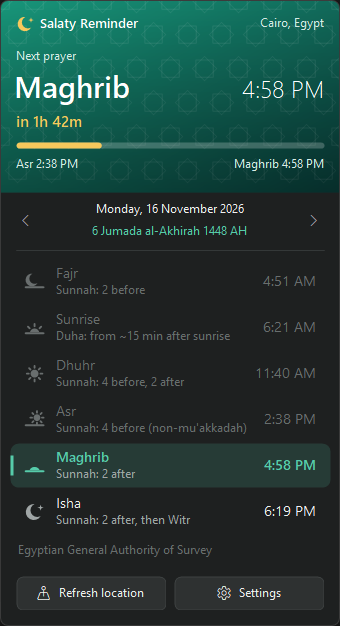
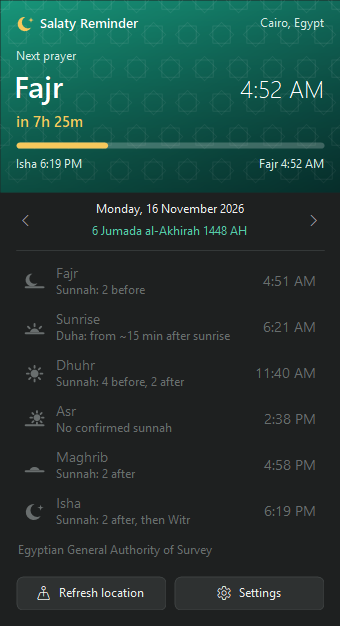
Show no confirmed sunnah for Asr (1.0.3)

diff --git a/src/SalatyReminder/Localization/Strings.cs b/src/SalatyReminder/Localization/Strings.cs
@@ -98,7 +98,7 @@ public static class L
         Prayer.Fajr => Ar ? "السنة: ركعتان قبل الفرض" : "Sunnah: 2 before",
         Prayer.Sunrise => Ar ? "الضحى: بعد الشروق بربع ساعة" : "Duha: from ~15 min after sunrise",
         Prayer.Dhuhr => Ar ? "السنة: ٤ قبل، ٢ بعد" : "Sunnah: 4 before, 2 after",
-        Prayer.Asr => Ar ? "السنة: ٤ قبل (غير مؤكدة)" : "Sunnah: 4 before (non-mu'akkadah)",
+        Prayer.Asr => Ar ? "لا توجد سنة راتبة" : "No confirmed sunnah",
         Prayer.Maghrib => Ar ? "السنة: ركعتان بعد الفرض" : "Sunnah: 2 after",
         Prayer.Isha => Ar ? "السنة: ركعتان بعد، ثم الوتر" : "Sunnah: 2 after, then Witr",
         _ => "",

diff --git a/CHANGELOG.md b/CHANGELOG.md
@@ -3,6 +3,11 @@
 All notable changes to Salaty Reminder are listed here.
 The format follows [Keep a Changelog](https://keepachangelog.com/en/1.1.0/) and versions follow [Semantic Versioning](https://semver.org/).
 
+## [1.0.3] - 2026-11-16
+
+### Changed
+- Asr shows "No confirmed sunnah" instead of 4 rak'ahs before, since those are not among the confirmed rawatib.
+
 ## [1.0.2] - 2026-11-16
 
 ### Fixed
@@ -34,6 +39,7 @@ The format follows [Keep a Changelog](https://keepachangelog.com/en/1.1.0/) and 
 - Automatic updates from GitHub Releases with SHA-256 verification.
 - Windows 10 support: the task-button strip is shrunk to make room for the widget.
 
+[1.0.3]: https://github.com/medovanx/salaty-reminder/releases/tag/v1.0.3
 [1.0.2]: https://github.com/medovanx/salaty-reminder/releases/tag/v1.0.2
 [1.0.1]: https://github.com/medovanx/salaty-reminder/releases/tag/v1.0.1
 [1.0.0]: https://github.com/medovanx/salaty-reminder/releases/tag/v1.0.0
